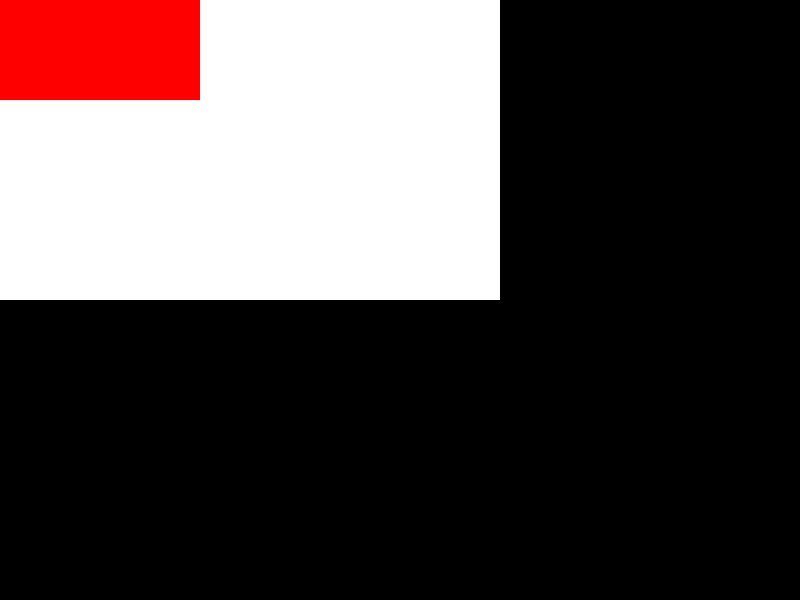
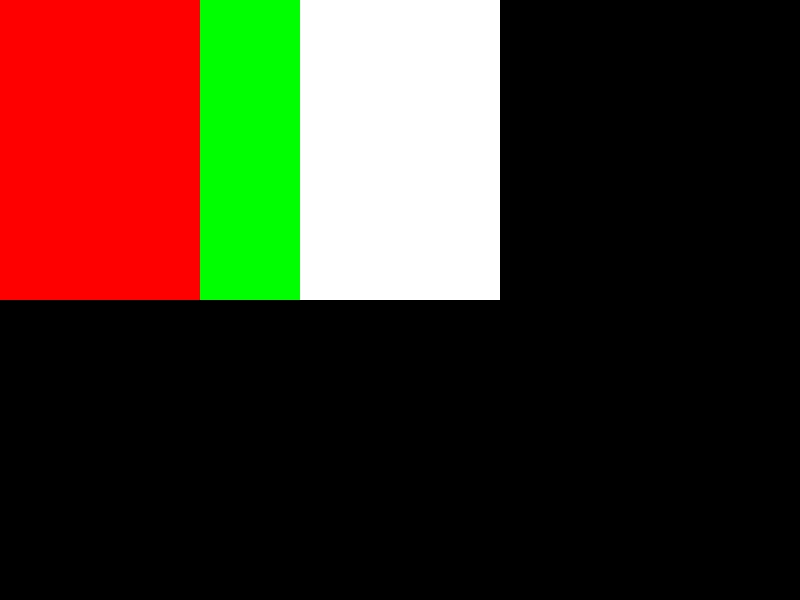
代码提交 高度计算问题未解决

Changed region(s): [[0.0, 0.0, 0.375, 0.51]]

diff --git a/week05/web-brower/layout.js b/week05/web-brower/layout.js
@@ -132,7 +132,7 @@ module.exports = function (el) {
     let item = items[i];
     let itemStyle = getStyle(item);
 
-    if (itemStyle[mainSize] === null) {
+    if (typeof itemStyle[mainSize] !== 'number') {
       itemStyle[mainSize] = 0;
     }
 
@@ -199,14 +199,14 @@ module.exports = function (el) {
           continue;
         }
       }
-
+      // 计算主轴
       if (flexTotal > 0) {
         let currentMain = mainBase;
         for (let i = 0; i < items.length; i++) {
           let item = items[i];
           let itemStyle = getStyle(item);
           if (itemStyle.flex) {
-            itemStyle[mainSize] = (mainSpace / flexTotal) * itemStyle.flex;
+            itemStyle[mainSize] = ((items.crossSpace- currentMain) / flexTotal) * itemStyle.flex;
           }
           itemStyle[mainSrart] = currentMain;
           itemStyle[mainEnd] = itemStyle[mainSrart] + mainSign * itemStyle[mainSize];
@@ -300,10 +300,9 @@ module.exports = function (el) {
       let item = items[i];
       let itemStyle = getStyle(item);
 
-      let align = itemStyle.alignSelf || style.alignItems;
-      if (item[crossSize] === null) {
-        itemStyle[crossSize] = (align === 'strerch') ?
-          lineCrossSize : 0;
+      let align = itemStyle.alignSelf || style['align-items'] ||style.alignItems;
+      if (typeof item[crossSize] !== 'number') {
+        itemStyle[crossSize] = lineCrossSize;
       }
       if (align === 'flex-start') {
         itemStyle[crossStart] = crossBase;

diff --git a/week05/web-brower/parser.js b/week05/web-brower/parser.js
@@ -103,7 +103,7 @@ function match(el, selector) {
     }
   } else if (selector.charAt(0) === '.') {
     let attr = el.attributes.filter(attr => attr.name === 'class')[0];
-    if (attr && attr.value === selector.replace('#', '')) {
+    if (attr && attr.value === selector.replace('.', '')) {
       return true;
     }
   } else {

diff --git a/week05/web-brower/server.js b/week05/web-brower/server.js
@@ -20,6 +20,7 @@ var start = function () {
     height: 300px;
     display: flex;
     background-color: rgb(255,255,255);
+    align-items: center;
     }
     #container #myid {
       width: 200px;
